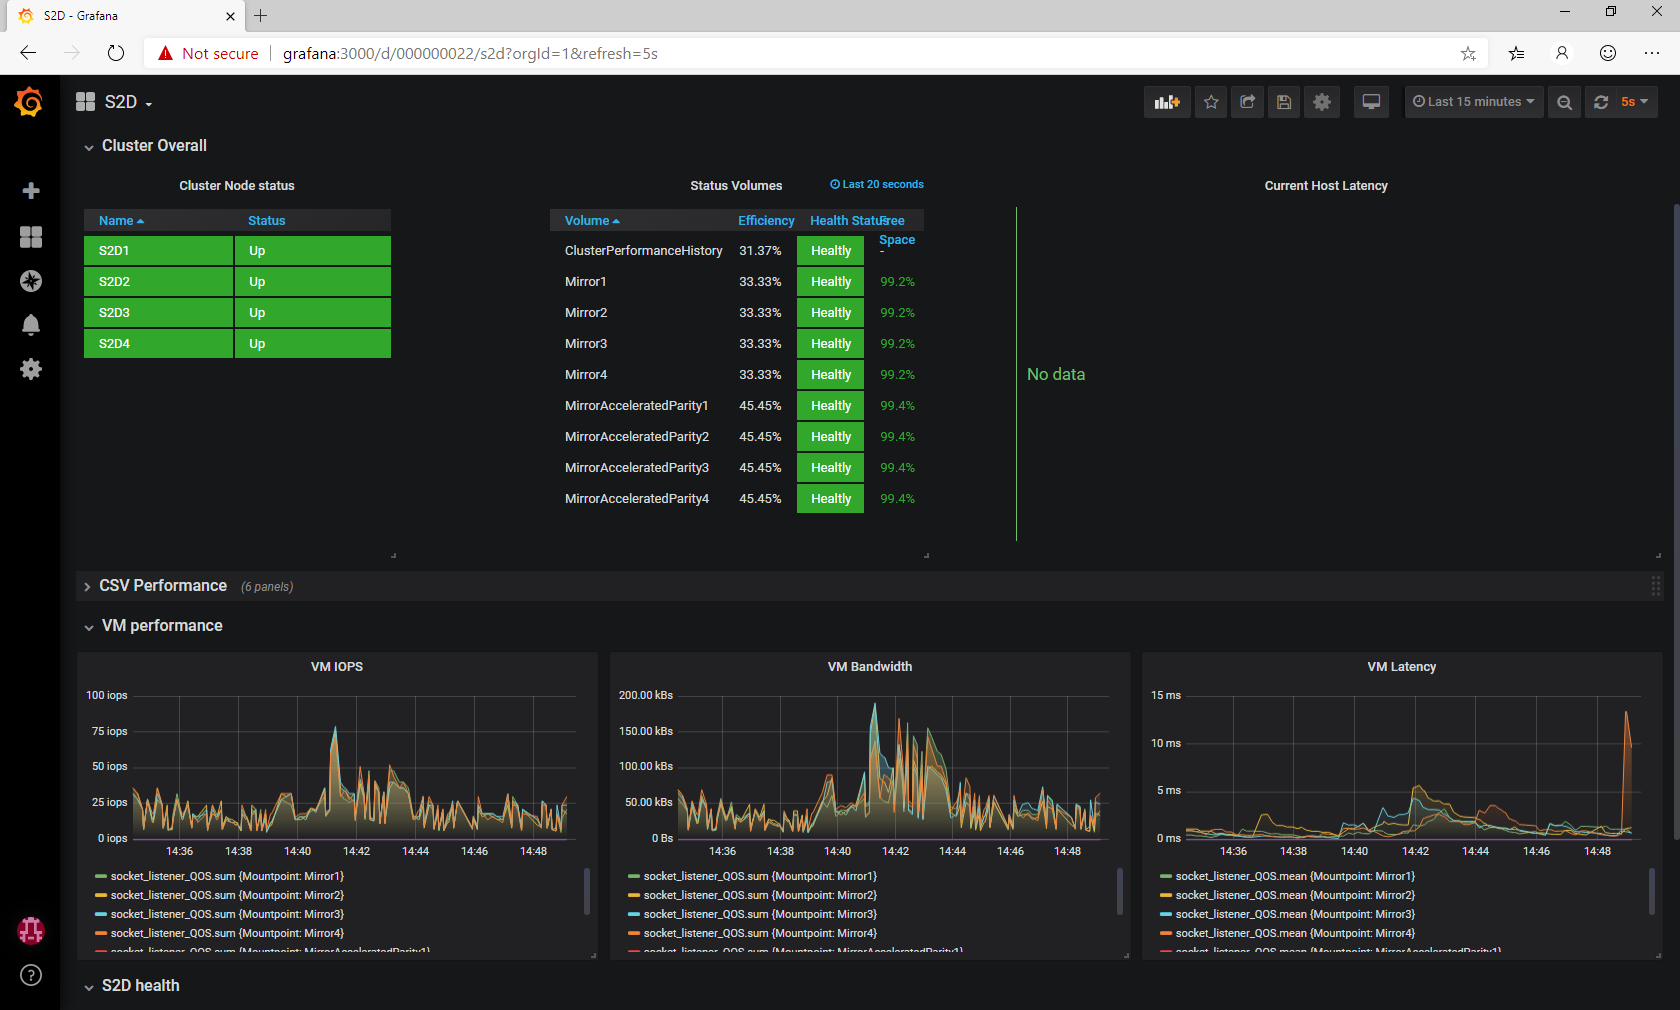
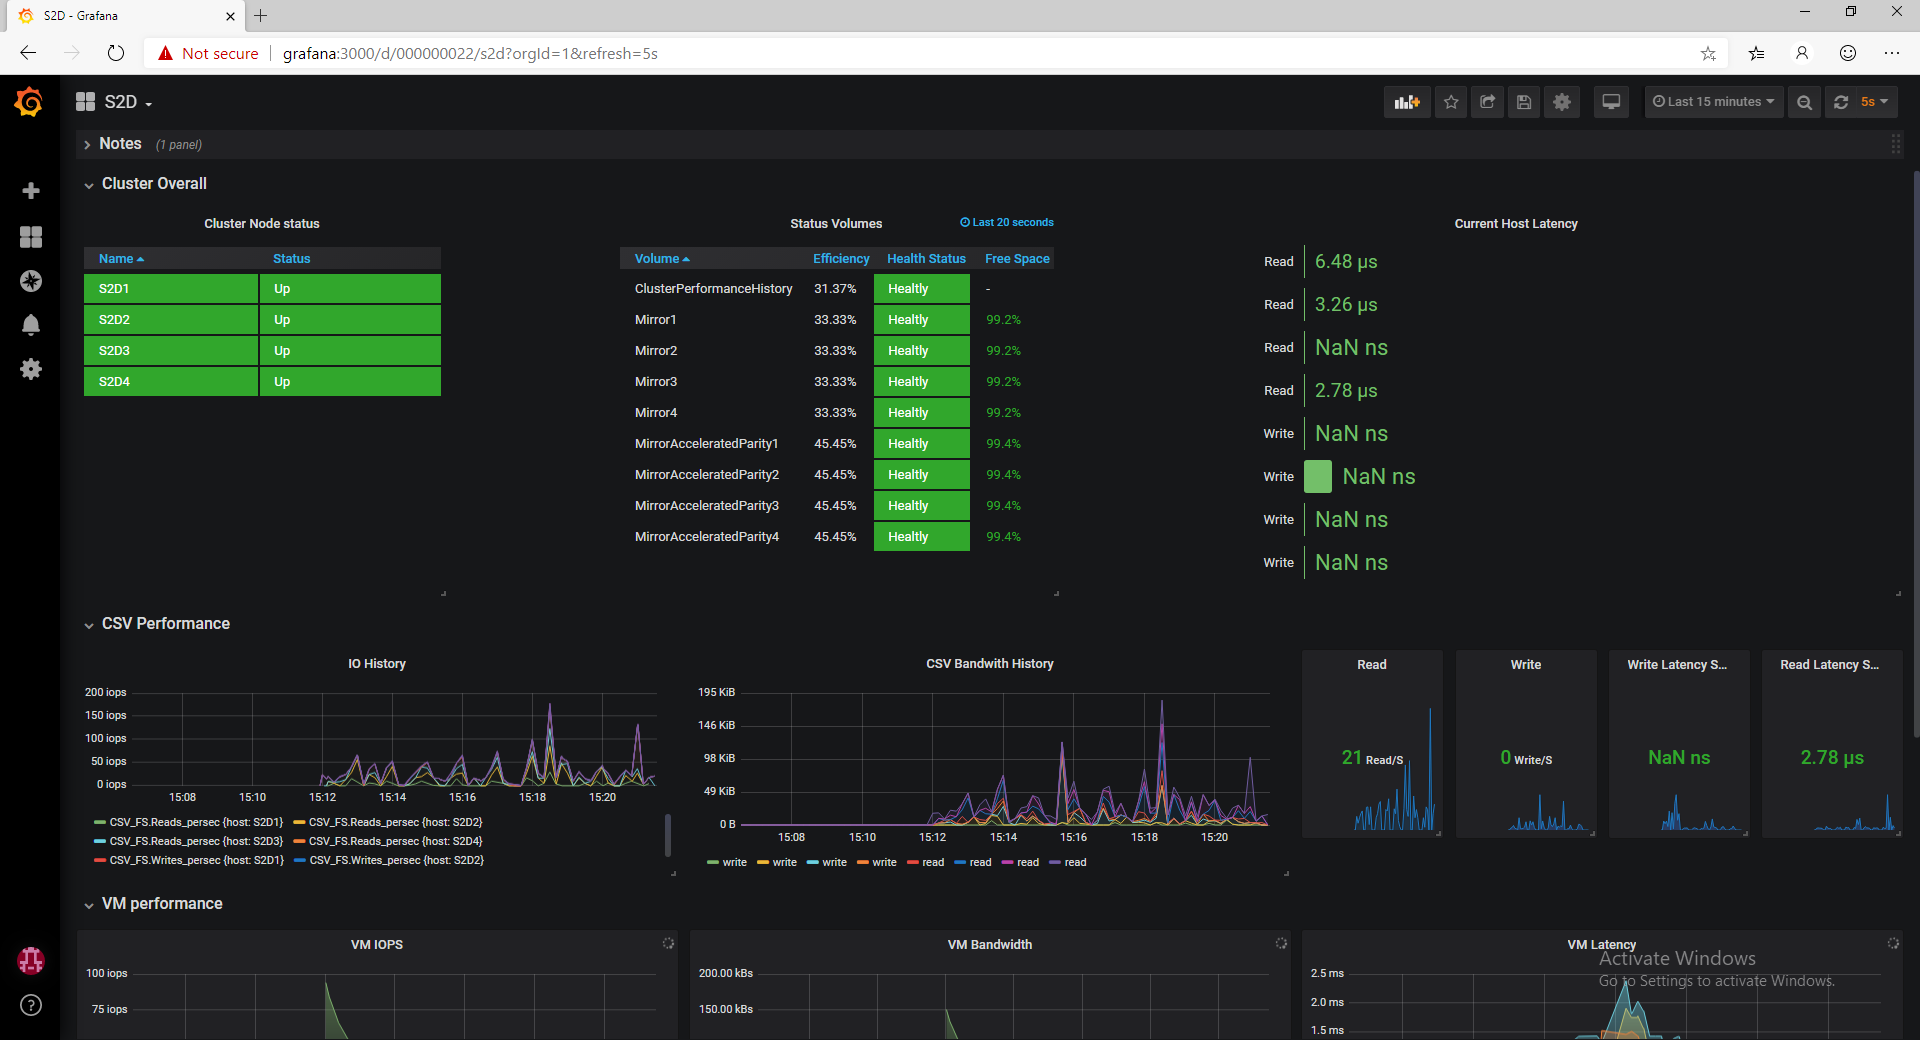
New dash screenshot
Former-commit-id: 6586083756a4b548463a0016c770d3e95bbee257

diff --git a/Scenarios/S2D and Grafana/readme.md b/Scenarios/S2D and Grafana/readme.md
@@ -182,6 +182,6 @@ After that just import JSON by pasting query from [here](/Scenarios/S2D%20and%20
 
 ![](/Scenarios/S2D%20and%20Grafana/Screenshots/GrafanaImportDashboard02.png)
 
-Unfortunately IOPS are not collected as for some reason CSVFS counter does not provide anything (further investigation needed)
+As you can see, virtualized system is not performing much. But for validating counters in Grafana it's more than enough.
 
 ![](/Scenarios/S2D%20and%20Grafana/Screenshots/GrafanaDashboard.png)
